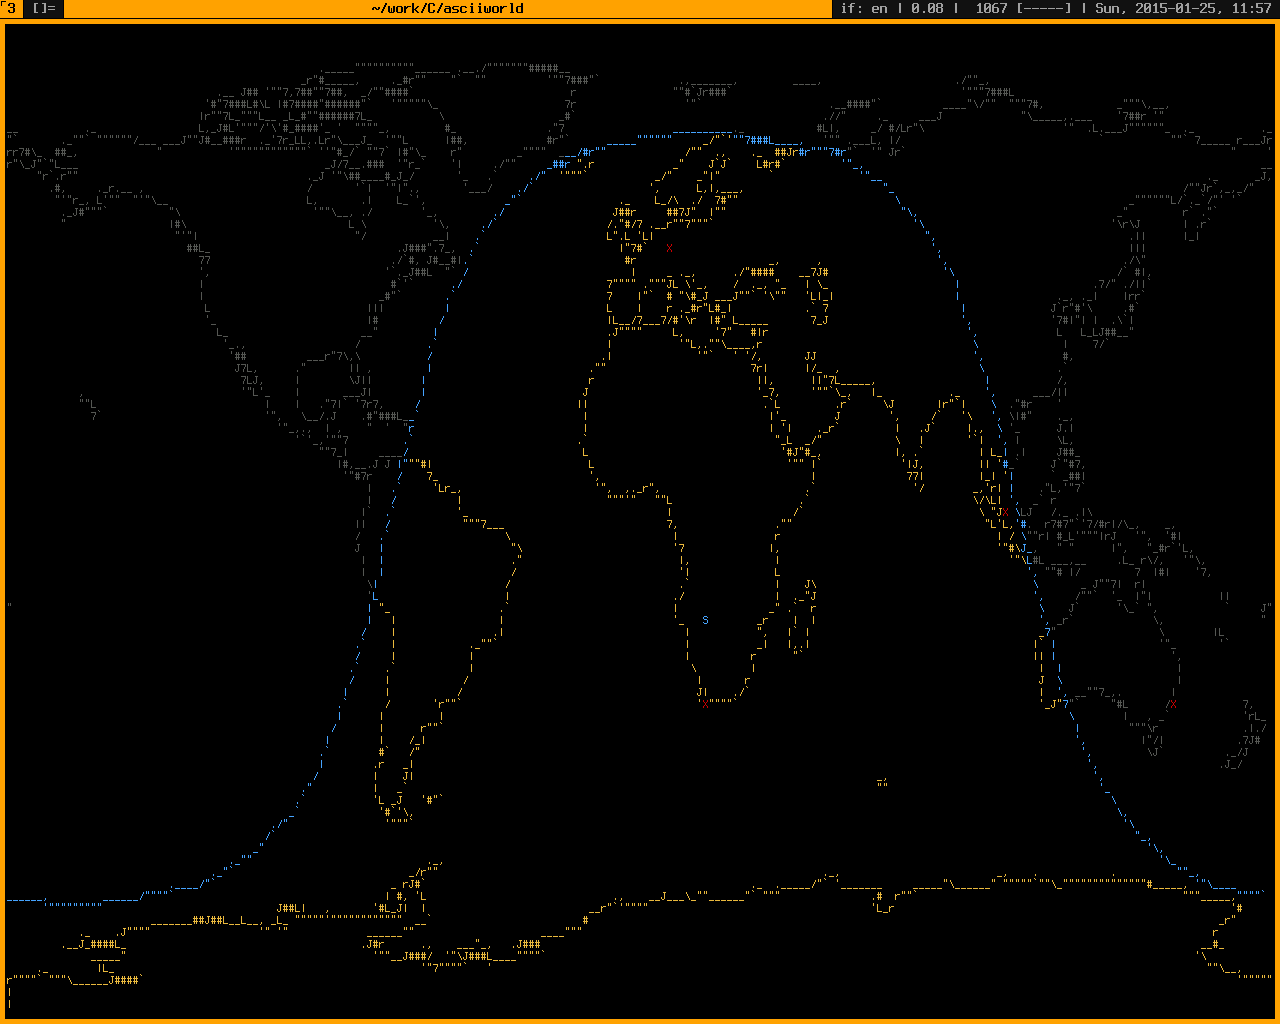
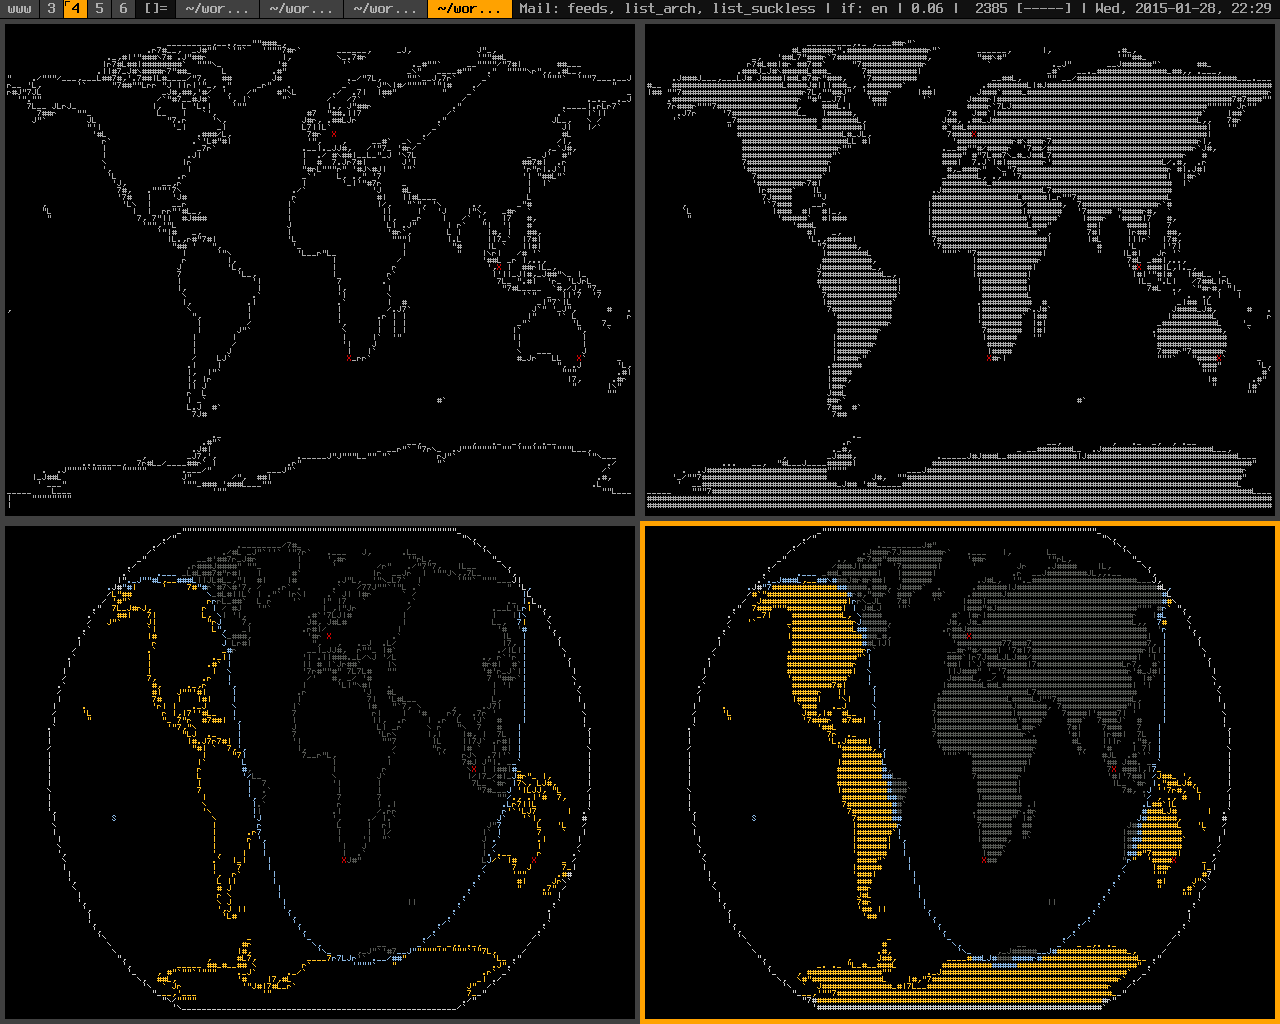
Render (possibly filled) polygons using libgd

diff --git a/asciiworld.c b/asciiworld.c
@@ -1,3 +1,4 @@
+#include <gd.h>
 #include <math.h>
 #include <shapefil.h>
 #include <stdio.h>
@@ -22,9 +23,11 @@ struct screen
     int width, height;
     char *data;
 
+    int solid_land;
     int world_border;
     int brush_color;
     int disable_colors;
+    double shade_steps_degree;
 
     void (* project)(struct screen *s, double lon, double lat, double *x, double *y);
 
@@ -88,57 +91,16 @@ calc_sun(struct sun *sun)
     sun->lat = 0.4095 * sin(0.016906 * ((utc.tm_yday + 1) - 80.086)) * RAD_2_DEG;
 }
 
-char
-decide_shade(struct screen *s, double lon1, double lat1, double lon2, double lat2)
-{
-    double phi1, lambda1, phi2, lambda2, phi_sun, lambda_sun;
-    double zeta1, zeta2;
-
-    if (!s->sun.active)
-        return PIXEL_NORMAL;
-
-    /* We're dealing with two points on the sphere here. This is kind of
-     * a problem because those two points might not be close to each
-     * other and thus create a long line. How shall we color that line?
-     * We don't know anything about the points/pixels between the two
-     * given points.
-     *
-     * (This problem exists in the line drawing algorithm as well: Only
-     * two points actually get projected instead of EVERY point on the
-     * line.)
-     *
-     * To decide the color of the resulting LINE, we use the Great
-     * Circle Distance. We do this for both points and decide based on
-     * the average distance. */
-
-    lambda1 = lon1 * DEG_2_RAD;
-    phi1 = lat1 * DEG_2_RAD;
-
-    lambda2 = lon2 * DEG_2_RAD;
-    phi2 = lat2 * DEG_2_RAD;
-
-    lambda_sun = s->sun.lon * DEG_2_RAD;
-    phi_sun = s->sun.lat * DEG_2_RAD;
-
-    zeta1 = acos(sin(phi_sun) * sin(phi1) +
-                 cos(phi_sun) * cos(phi1) * cos(lambda1 - lambda_sun));
-    zeta2 = acos(sin(phi_sun) * sin(phi2) +
-                 cos(phi_sun) * cos(phi2) * cos(lambda2 - lambda_sun));
-
-    if (zeta1 + (zeta2 - zeta1) * 0.5 > 90 * DEG_2_RAD)
-        return PIXEL_DARK;
-    else
-        return PIXEL_NORMAL;
-}
-
 void
 screen_init(struct screen *s)
 {
     s->brush_color = PIXEL_NORMAL;
     s->project = project_equirect;
     s->sun.active = 0;
+    s->solid_land = 0;
     s->world_border = 0;
     s->disable_colors = 0;
+    s->shade_steps_degree = 2;  /* TODO: Make this an option? */
 }
 
 int
@@ -168,7 +130,7 @@ screen_show_interpreted(struct screen *s, int trailing_newline)
     int x, y, sun_found, is_line, glyph;
     char a, b, c, d;
     char *charset[] = {  " ",  ".",  ",",  "_",  "'",  "|",  "/",  "J",
-                         "`", "\\",  "|",  "L", "\"",  "7",  "r",  "*" };
+                         "`", "\\",  "|",  "L", "\"",  "7",  "r",  "#" };
 
     for (y = 0; y < s->height - 1; y += 2)
     {
@@ -244,6 +206,9 @@ screen_set_pixel(struct screen *s, int x, int y, char val)
 void
 screen_draw_line(struct screen *s, int x1, int y1, int x2, int y2)
 {
+    /* TODO: Replace with libgd as well? We might then kick our custom
+     * framebuffer ... */
+
     int x, y, t, dx, dy, incx, incy, pdx, pdy, es, el, err;
 
     dx = x2 - x1;
@@ -312,10 +277,18 @@ int
 screen_draw_map(struct screen *s, char *file)
 {
     int ret = 1;
-    int i, n, t, p, v, isFirst;
-    double lon1, lat1;
+    int i, n, t, v, white, black;
+    int x, y;
+    double x1, y1;
+    gdPoint *polypoints = NULL;
     SHPHandle h;
     SHPObject *o;
+    gdImagePtr img;
+
+    img = gdImageCreate(s->width, s->height);
+    black = gdImageColorAllocate(img, 0, 0, 0);
+    (void)black;  /* only needed to set background */
+    white = gdImageColorAllocate(img, 255, 255, 255);
 
     h = SHPOpen(file, "rb");
     if (h == NULL)
@@ -351,31 +324,29 @@ screen_draw_map(struct screen *s, char *file)
             goto cleanout;
         }
 
-        v = 0;
-        p = 0;
-        isFirst = 1;
-
-        while (v < o->nVertices)
+        if (polypoints != NULL)
+            free(polypoints);
+        polypoints = malloc(sizeof(gdPoint) * o->nVertices);
+        for (v = 0; v < o->nVertices; v++)
         {
-            if (p < o->nParts && v == o->panPartStart[p])
-            {
-                /* Start of part number "p" */
-                isFirst = 1;
-                p++;
-            }
-            if (!isFirst)
-            {
-                s->brush_color = decide_shade(s, lon1, lat1, o->padfX[v], o->padfY[v]);
-                screen_draw_line_projected(s, lon1, lat1, o->padfX[v], o->padfY[v]);
-            }
-            lon1 = o->padfX[v];
-            lat1 = o->padfY[v];
-            isFirst = 0;
-            v++;
+            (s->project)(s, o->padfX[v], o->padfY[v], &x1, &y1);
+            polypoints[v].x = x1;
+            polypoints[v].y = y1;
         }
+
+        if (s->solid_land)
+            gdImageFilledPolygon(img, polypoints, o->nVertices, white);
+        else
+            gdImagePolygon(img, polypoints, o->nVertices, white);
 
         SHPDestroyObject(o);
     }
+
+    for (y = 0; y < s->height; y++)
+        for (x = 0; x < s->width; x++)
+            screen_set_pixel(s, x, y, gdImageGetPixel(img, x, y) ? s->brush_color : 0);
+
+    gdImageDestroy(img);
 
 cleanout:
     SHPClose(h);
@@ -523,6 +494,71 @@ screen_mark_sun_border(struct screen *s)
 }
 
 void
+screen_shade_map(struct screen *s)
+{
+    int dark, normal, shade;
+    int ix, iy;
+    gdImagePtr img;
+    double phi, lambda, phi_sun, lambda_sun, zeta, aspan;
+    double x, y;
+    gdPoint polypoints[4];
+
+    /* Render small patches in the color of daylight or night. The
+     * result is then used as an overlay for the existing map. We're
+     * still calculating everything in spherical coordinates which saves
+     * us the need for an inverse projection. */
+
+    img = gdImageCreate(s->width, s->height);
+    dark = gdImageColorAllocate(img, 0, 0, 0);
+    normal = gdImageColorAllocate(img, 255, 255, 255);
+
+    aspan = s->shade_steps_degree * DEG_2_RAD;
+
+    lambda_sun = s->sun.lon * DEG_2_RAD;
+    phi_sun = s->sun.lat * DEG_2_RAD;
+
+    /* TODO: Center patches? Only matters for high resolutions... */
+    for (lambda = -180 * DEG_2_RAD; lambda < 180 * DEG_2_RAD - aspan; lambda += aspan)
+    {
+        for (phi = -90 * DEG_2_RAD; phi < 90 * DEG_2_RAD - aspan; phi += aspan)
+        {
+            /* Use the Great Circle Distance to determine color of this
+             * patch. */
+            zeta = acos(sin(phi_sun) * sin(phi) +
+                    cos(phi_sun) * cos(phi) * cos(lambda - lambda_sun));
+
+            if (zeta > 90 * DEG_2_RAD)
+                shade = dark;
+            else
+                shade = normal;
+
+            (s->project)(s, lambda * RAD_2_DEG, phi * RAD_2_DEG, &x, &y);
+            polypoints[0].x = x;
+            polypoints[0].y = y;
+            (s->project)(s, (lambda + aspan) * RAD_2_DEG, phi * RAD_2_DEG, &x, &y);
+            polypoints[1].x = x;
+            polypoints[1].y = y;
+            (s->project)(s, (lambda + aspan) * RAD_2_DEG, (phi + aspan) * RAD_2_DEG, &x, &y);
+            polypoints[2].x = x;
+            polypoints[2].y = y;
+            (s->project)(s, lambda * RAD_2_DEG, (phi + aspan) * RAD_2_DEG, &x, &y);
+            polypoints[3].x = x;
+            polypoints[3].y = y;
+
+            gdImageFilledPolygon(img, polypoints, 4, shade);
+        }
+    }
+
+    /* XXX Hack: PIXEL_NORMAL is 1, PIXEL_DARK is 3. */
+    for (iy = 0; iy < s->height; iy++)
+        for (ix = 0; ix < s->width; ix++)
+            if (gdImageGetPixel(img, ix, iy) == dark)
+                s->data[iy * s->width + ix] *= 3;
+
+    gdImageDestroy(img);
+}
+
+void
 screen_draw_world_border(struct screen *s)
 {
     int i, steps = 128;
@@ -586,7 +622,7 @@ main(int argc, char **argv)
 
     screen_init(&s);
 
-    while ((opt = getopt(argc, argv, "w:h:m:l:sTp:bC")) != -1)
+    while ((opt = getopt(argc, argv, "w:h:m:l:sTp:bCo")) != -1)
     {
         switch (opt)
         {
@@ -620,6 +656,9 @@ main(int argc, char **argv)
             case 'C':
                 s.disable_colors = 1;
                 break;
+            case 'o':
+                s.solid_land = 1;
+                break;
             default:
                 exit(EXIT_FAILURE);
         }
@@ -632,7 +671,10 @@ main(int argc, char **argv)
     if (!screen_draw_map(&s, map))
         exit(EXIT_FAILURE);
     if (s.sun.active)
+    {
+        screen_shade_map(&s);
         screen_mark_sun_border(&s);
+    }
     if (s.world_border)
         screen_draw_world_border(&s);
     if (highlight_locations != NULL)

diff --git a/README.md b/README.md
@@ -12,11 +12,14 @@ You need a map. I suggest you use one of those:
 *  [Natural Earth Data, Land](http://www.naturalearthdata.com/downloads/110m-physical-vectors/110m-land/)
 *  [Natural Earth Data, Countries](http://www.naturalearthdata.com/downloads/110m-cultural-vectors/110m-admin-0-countries/)
 
-Since NED distributes their data as "ESRI Shapefiles", you also need this library:
+Since NED distributes their data as "ESRI Shapefiles", you also need [shapelib](http://shapelib.maptools.org/).
 
-*  [Shapelib](http://shapelib.maptools.org/)
+For rendering filled polygons, [libgd](http://www.libgd.org/) is used.
 
-In Arch Linux, the library is available in the package [shapelib](https://www.archlinux.org/packages/community/x86_64/shapelib/).
+Long story short: If you're using Arch Linux, you're fine with installing these two packages:
+
+*  [gd](https://www.archlinux.org/packages/extra/x86_64/gd/)
+*  [shapelib](https://www.archlinux.org/packages/community/x86_64/shapelib/)
 
 Command line options
 ====================
@@ -44,6 +47,8 @@ Command line options
 `-b`: Draw a border around the projected world. This can be useful for some projections.
 
 `-C`: Disable colors.
+
+`-o`: Draw land masses as filled polygons. You'll get garbled results when using this together with country borders.
 
 More ideas
 ==========
